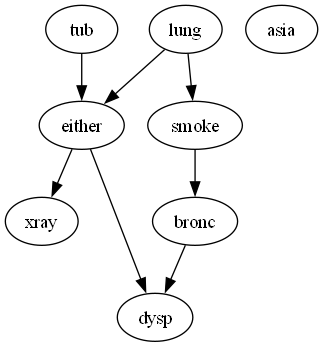
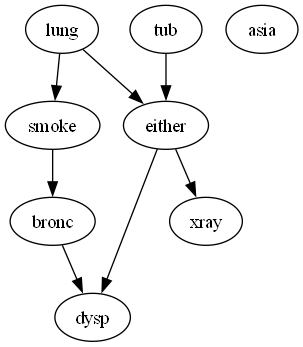
CSE-756: make the code dynamic to add expert knowledge if needed

diff --git a/experiments/asia/01_run_pc_calculate_CPDs.py b/experiments/asia/01_run_pc_calculate_CPDs.py
@@ -3,13 +3,33 @@ from src.structure_learning.constraint_based import learn_pc_discrete
 from src.evaluation.graph_metrics import evaluate_graph_recovery
 from src.visualization.graphviz_plot import save_graphviz_dag
 from src.estimation.parameter_estimation import estimate_parameters_mle
+from src.expert_knowledge.asia import get_asia_expert_knowledge
 
 def main():
     true_model = load_asia_model()
     asia_samples = simulate_asia_samples(n_samples=10000)
     
+      # Default: no expert knowledge.
+    # Caution !If you make it false then you will override the non-expert-guided dag
+    use_expert_knowledge = True
+    knowledge_type = "basic"
+    
+    expert_knowledge = get_asia_expert_knowledge(
+        use_expert_knowledge=use_expert_knowledge,
+        knowledge_type=knowledge_type,
+    )
+
+    # To enable expert knowledge, change:
+    # use_expert_knowledge = True
+    #
+    # Available knowledge_type values:
+    # "basic"
+    # "forbidden"
+    # "required"
+
     learned_dag = learn_pc_discrete(
-        samples=asia_samples
+        samples=asia_samples,
+        expert_knowledge=expert_knowledge
     )
     
     scores = evaluate_graph_recovery(
@@ -19,11 +39,16 @@ def main():
         print_scores=True
     )
     
+    if use_expert_knowledge:
+        graph_output_path = f"results/graphs/asia_pc_learned_expert_{knowledge_type}.png"
+    else:
+        graph_output_path = "results/graphs/asia_pc_learned.png"
+        
     save_graphviz_dag(
-    model_or_graph=learned_dag,
-    output_path="results/graphs/asia_pc_learned.png",
-    layout="dot",
-)
+        model_or_graph=learned_dag,
+        output_path=graph_output_path,
+        layout="dot",
+    )
     
     print("\n All scores:")
     print(scores)

diff --git a/src/expert_knowledge/asia.py b/src/expert_knowledge/asia.py
@@ -1,0 +1,55 @@
+from pgmpy.causal_discovery import ExpertKnowledge
+
+
+def get_asia_expert_knowledge(
+    use_expert_knowledge=False,
+    knowledge_type="basic",
+):
+    """
+    Return ASIA expert knowledge for causal discovery.
+
+    By default, returns None so the learning algorithm runs without expert knowledge.
+
+    Parameters
+    ----------
+    use_expert_knowledge:
+        If False, no expert knowledge is used.
+
+    knowledge_type:
+        "basic"      : small safe set of required/forbidden edges.
+        "forbidden"  : only forbidden edges.
+        "required"   : only required edges.
+    """
+    if not use_expert_knowledge:
+        return None
+
+    if knowledge_type == "basic":
+        return ExpertKnowledge()
+        
+    if knowledge_type == "temporal":
+        return ExpertKnowledge(
+            temporal_order = [
+                ["asia", "smoke"],
+                ["tub", "lung", "bronc"],
+                ["either"],
+                ["xray", "dysp"],
+    ]
+        )
+
+    if knowledge_type == "forbidden":
+        return ExpertKnowledge(
+            forbidden_edges=[
+                ("lung", "smoke")
+            ],
+        )
+
+    if knowledge_type == "required":
+        return ExpertKnowledge(
+            required_edges=[
+                ("asia", "tub")
+            ],
+        )
+
+    raise ValueError(
+        "knowledge_type must be one of: 'basic', 'forbidden', or 'required'."
+    )

diff --git a/experiments/asia/02_run_hill_climb_calculate_CPDs.py b/experiments/asia/02_run_hill_climb_calculate_CPDs.py
@@ -3,13 +3,33 @@ from src.structure_learning.score_based import learn_hill_climb_discrete
 from src.evaluation.graph_metrics import evaluate_graph_recovery
 from src.visualization.graphviz_plot import save_graphviz_dag
 from src.estimation.parameter_estimation import estimate_parameters_mle
+from src.expert_knowledge.asia import get_asia_expert_knowledge
 
 def main():
     true_model = load_asia_model()
     asia_samples = simulate_asia_samples(n_samples=10000)
     
+       # Default: no expert knowledge.
+    # Caution !If you make it false then you will override the non-expert-guided dag
+    use_expert_knowledge = True
+    knowledge_type = "basic"
+    
+    expert_knowledge = get_asia_expert_knowledge(
+        use_expert_knowledge=use_expert_knowledge,
+        knowledge_type=knowledge_type,
+    )
+
+    # To enable expert knowledge, change:
+    # use_expert_knowledge = True
+    #
+    # Available knowledge_type values:
+    # "basic"
+    # "forbidden"
+    # "required"
+
     learned_dag = learn_hill_climb_discrete(
-        samples=asia_samples
+        samples=asia_samples,
+        expert_knowledge=expert_knowledge,
     )
     
     scores = evaluate_graph_recovery(

diff --git a/src/structure_learning/constraint_based.py b/src/structure_learning/constraint_based.py
@@ -8,7 +8,6 @@ def learn_pc_discrete(
      significance_level=0.01,
      max_cond_vars=4,
      expert_knowledge=None,
-     enforce_expert_knowledge=False,
      n_jobs=-1,
      show_progress=True   
 ):
@@ -20,7 +19,6 @@ def learn_pc_discrete(
         significance_level=significance_level,
         max_cond_vars=max_cond_vars,
         expert_knowledge=expert_knowledge,
-        enforce_expert_knowledge=enforce_expert_knowledge,
         n_jobs=n_jobs,
         show_progress=show_progress,
     )
